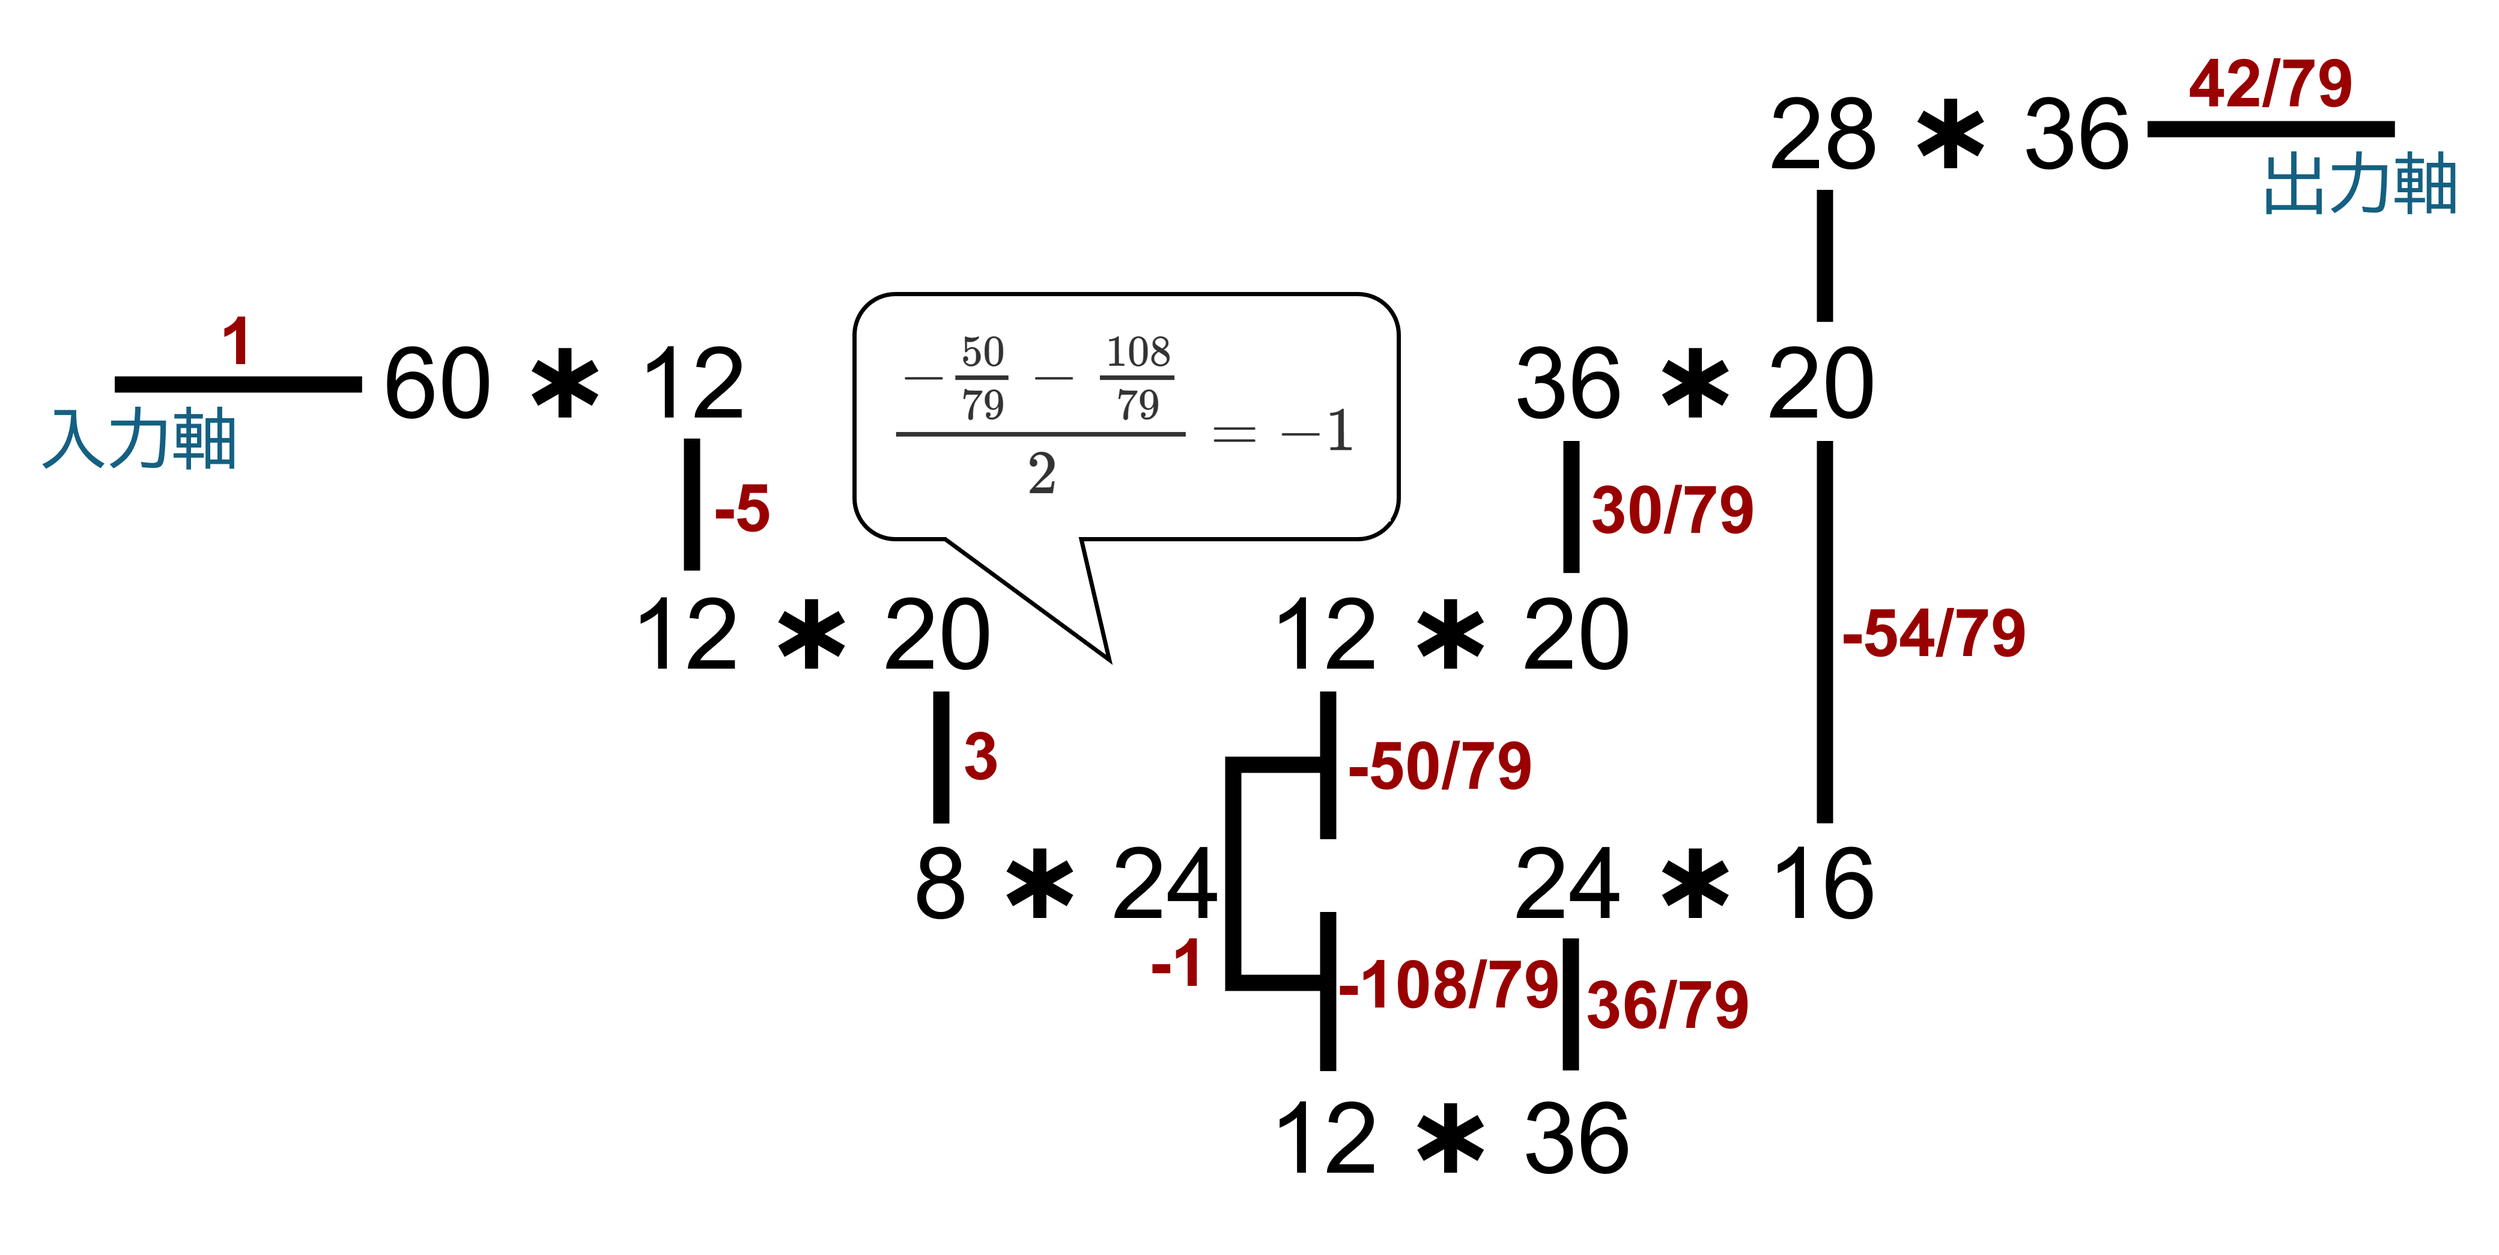
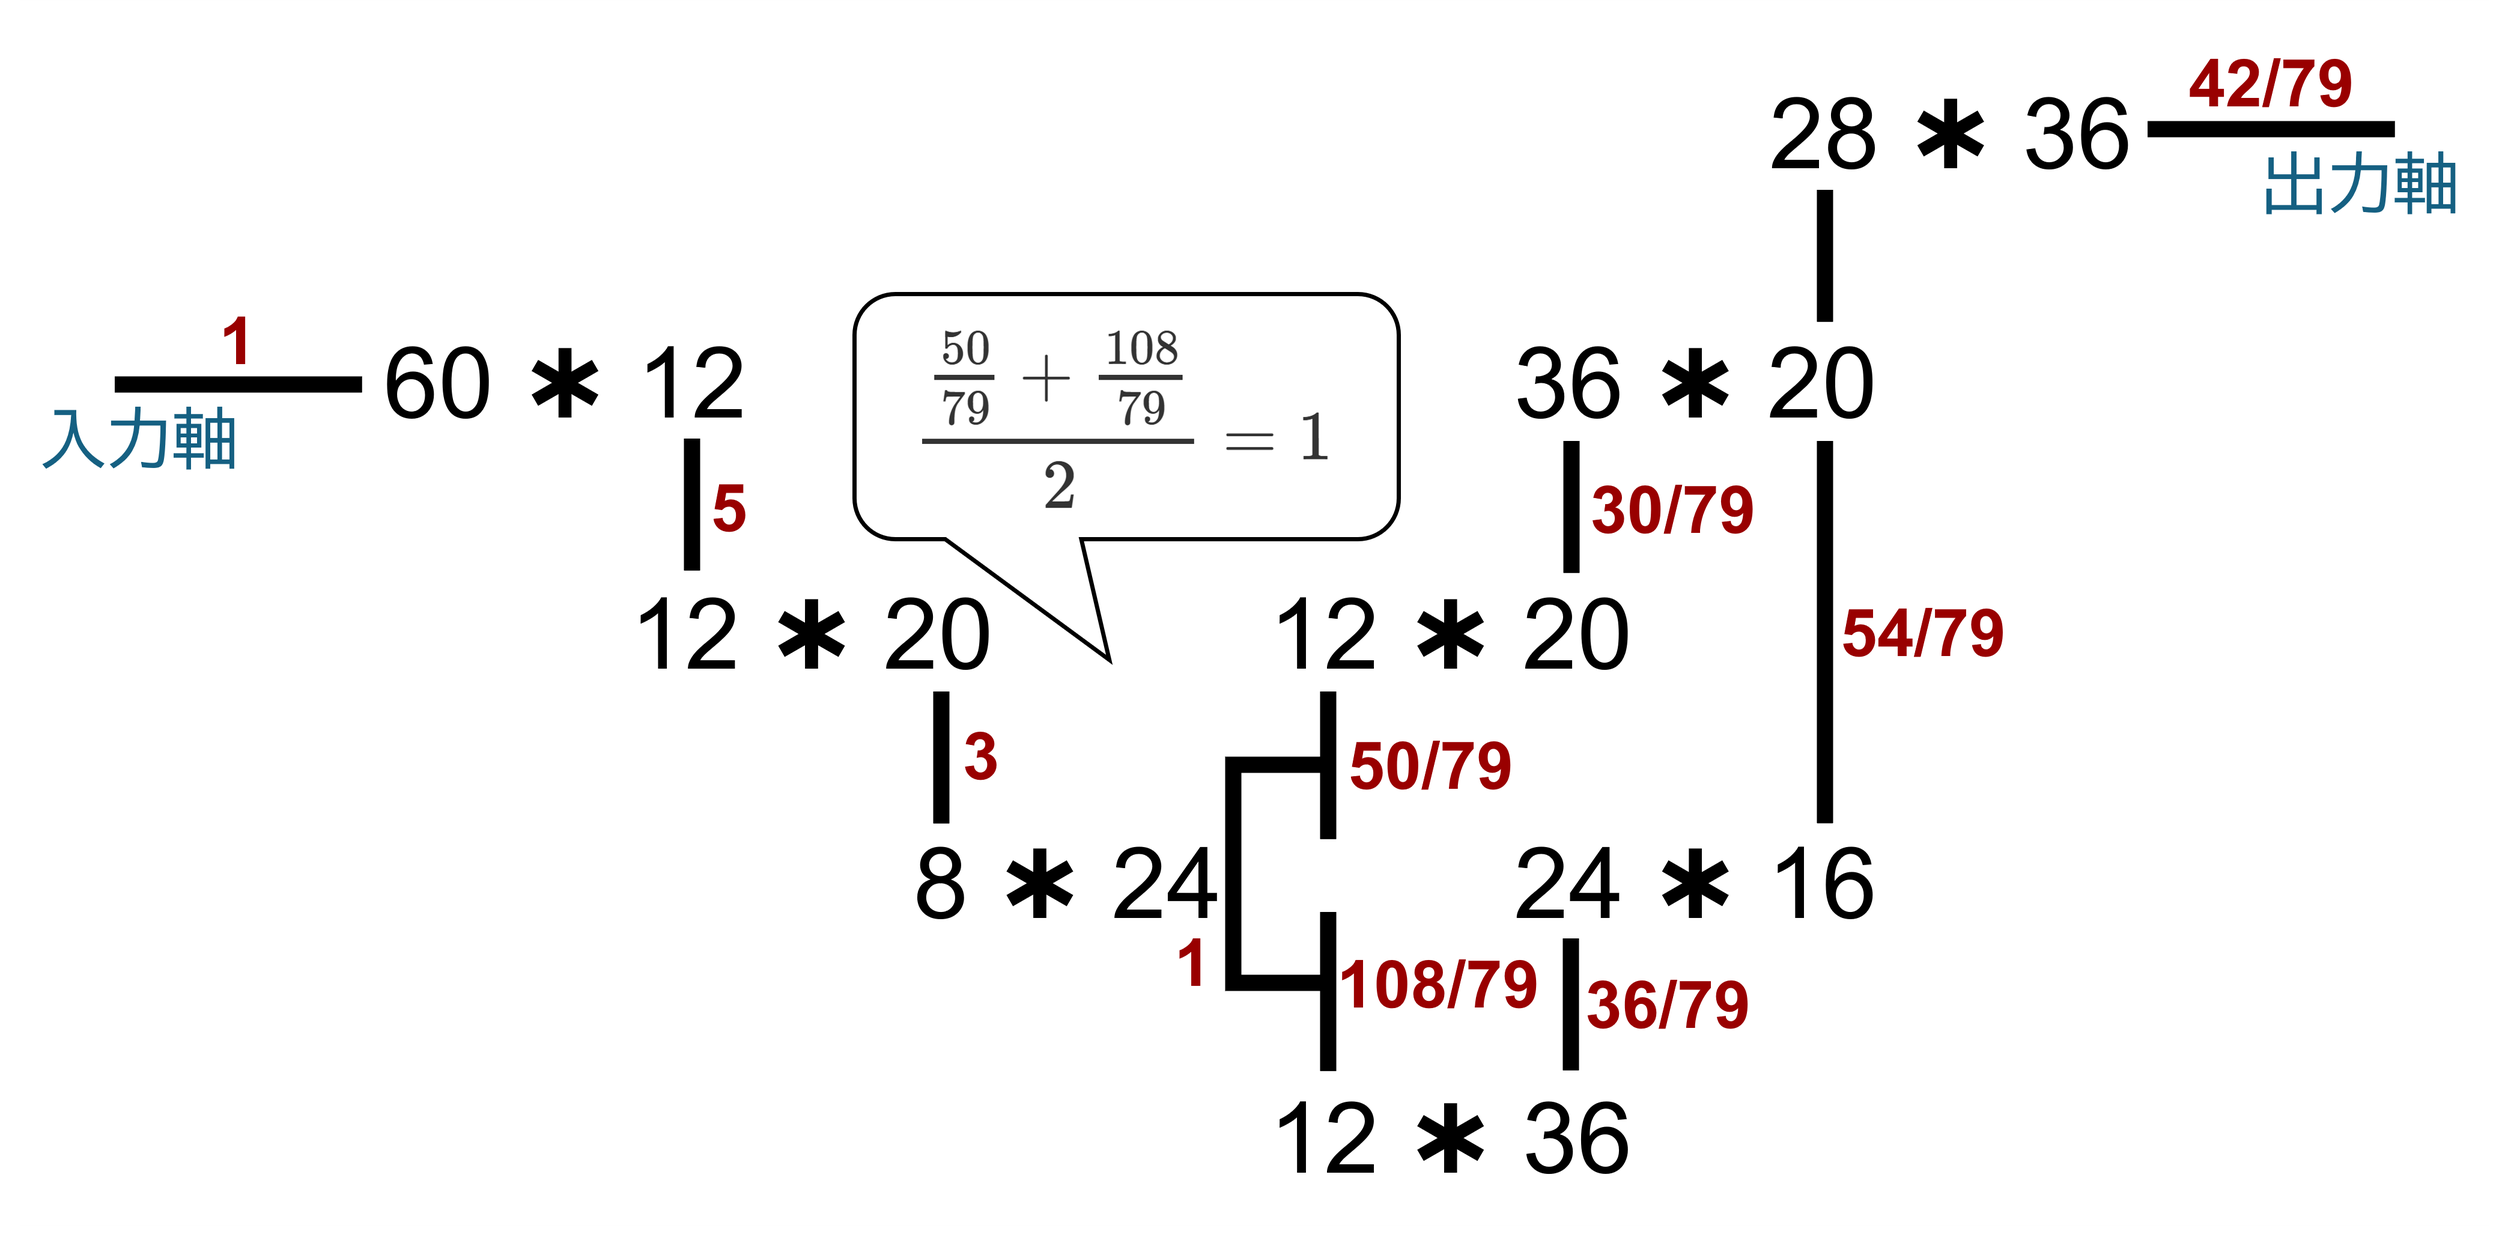
部員ページの更新（文章の変更など）

diff --git a/gallery/member_yasutajan/geocentric_model_of_planetary_motion.html b/gallery/member_yasutajan/geocentric_model_of_planetary_motion.html
@@ -27,7 +27,7 @@
     </header>
 
     <main id="app">
-        <figure>
+        <figure id="first_image">
             <img src="\images\gallery\member_yasutajan\work.png" alt="作品の写真">
         </figure>
 
@@ -162,7 +162,7 @@
                 プトレマイオスの測定の精密さ
             </h1>
             <p class="lead">
-                プトレマイオスは、<ruby>惑星<rt>わくせい</rt></ruby>や<ruby>周転円<rt>しゅうてんえん</rt></ruby>の中心が動く周期や、<ruby>従円<rt>じゅうえん</rt></ruby>と<ruby>周転円<rt>しゅうてんえん</rt></ruby>の大きさの比率をとても正確に計算していました。<br>
+                プトレマイオスは、<ruby>惑星<rt>わくせい</rt></ruby>や<ruby>周転円<rt>しゅうてんえん</rt></ruby>の中心が動く周期や<ruby>従円<rt>じゅうえん</rt></ruby>と<ruby>周転円<rt>しゅうてんえん</rt></ruby>の大きさの比を、とても正確に計算していました。<br>
                 「周期」とは、ここでは回っているものが元の位置に戻ってくるまでの時間のことを言います。<br>
                 例えば、金星と地球が最も近づく時間の間隔は583.934日としていましたが、
                 <sup>
@@ -361,9 +361,24 @@
                 歯車の仕組み
             </h1>
             <p class="lead">
-                この作品では、<ruby>惑星<rt>わくせい</rt></ruby>が正しい周期で動くように、歯車を複雑に組み合わせて<ruby>惑星<rt>わくせい</rt></ruby>を動かしています。<br>
-                歯車が1歯(ギザギザ一つ分)だけ進むと、それとかみ合っている歯車は、逆向きに1歯進みます。<br>
-                したがって、歯数mの歯車Aが1回転すると、歯車Aはm歯進むため、それとかみ合っている歯数nの歯車Bは逆向きにm歯進みます。つまり、歯車Bは逆向きにm/n回転するのです。<br>
+                この作品では、たくさんの歯車を使って<ruby>惑星<rt>わくせい</rt></ruby>を動かしています。<br>
+                まずは、歯車の基本的な仕組みについて説明します。
+            </p>
+            <p class="lead">
+                歯車どうしは、そのまわりのギザギザがかみ合って回ります。<br>
+                例えば、ギザギザが10個ある歯車Aと、ギザギザが20個ある歯車Bがかみ合っているとしましょう。<br>
+                歯車Aが1回転すると、歯車Aにはギザギザが10個あるのですから、歯車Bはギザギザ10個分回転します。<br>
+                しかし、歯車Bにはギザギザが20個あるのですから、歯車Bは&nbsp;10&nbsp;÷&nbsp;20&nbsp;=&nbsp;0.5回転します。
+                <sup>
+                    <span class="nowrap note-trigger" data-note=
+                        "本当は、かみ合っている歯車どうしは逆向きに回転するのですが、分かりやすくするために、向きについては考えないことにします。"
+                        >
+                        注16
+                    </span>
+                </sup><br>
+            </p>
+            <p class="lead">
+                このように、歯車Aを1回転させたときにかみ合っている歯車Bが何回転するかは、「歯車Aのギザギザの数」÷「歯車Bのギザギザの数」で決まります。<br>
                 これが、<ruby>惑星<rt>わくせい</rt></ruby>を正しい周期で動かすための基本的な仕組みです。
             </p>
             <figure>
@@ -375,15 +390,26 @@
                         </a>
                     </span><br>
                     図6: 歯車の組み合わせ<br>
-                    歯車Aが1回転すると、歯車Bは逆向きにm/n回転する
+                    左の歯車が1回転すると、右の歯車は逆向きに10÷20=0.5回転する
                 </figcaption>
             </figure>
 
             <p class="lead">
-                しかし、このような単純な仕組みだけで<ruby>惑星<rt>わくせい</rt></ruby>の動きを表現するには、複雑な歯数の歯車が必要になってしまいます。<br>
-                限られた種類の歯車で<ruby>惑星<rt>わくせい</rt></ruby>の動きを表現するために、ディファレンシャルギアと呼ばれる歯車を使いました。<br>
-                ディファレンシャルギアには、a, b, cという3つの回転軸があります。
-                そして、これらの回転軸は、その回転数がc=(a+b)/2をみたすように回転します。<br>
+                しかし、このような単純な仕組みだけで<ruby>惑星<rt>わくせい</rt></ruby>の動きを表現するには、複雑なギザギザの数をもつ歯車が必要になってしまいます。<br>
+                限られた種類の歯車で<ruby>惑星<rt>わくせい</rt></ruby>の動きを表現するために、ディファレンシャルギアという特別な歯車を使いました。
+            </p>
+            <p class="lead">
+                ディファレンシャルギアは、a, b, cという3つの回転軸をもつ不思議な仕組みで、その3つの軸の回転数には次の関係があります。<br>
+                cの回転数&nbsp;=&nbsp;(aの回転数&nbsp;+&nbsp;bの回転数)&nbsp;÷&nbsp;2<br>
+                例えば、aが18回転、bが同じ向きに8回転すると、cは(18&nbsp;+&nbsp;8)&nbsp;÷&nbsp;2&nbsp;=&nbsp;13回転します。
+                <sup>
+                    <span class="nowrap note-trigger" data-note=
+                        "18や8という数字は、2や3をかけることで作れますが、13はそうではないということがポイントです。
+                        難しい話になりますが、普通の歯車をかみ合わせて実現できる回転比はそのギザギザの数の素因数どうしのかけ算や割り算で表せる数値に限られる一方、ディファレンシャルギアを使うと、有理数である回転比ならどんな数値でも実現できます。"
+                        >
+                        注17
+                    </span>
+                </sup><br>
                 この作品では、普通の歯車とディファレンシャルギアを組み合わせて、<ruby>惑星<rt>わくせい</rt></ruby>が正しい周期で動くようにしています。
             </p>
             <figure>
@@ -395,7 +421,7 @@
                         </a>
                     </span><br>
                     図7: ディファレンシャルギアの仕組み<br>
-                    3つの回転軸a, b, cは、c=(a+b)/2をみたすように回転する
+                    3つの回転軸a, b, cは、c=(a+b)÷2をみたすように回転する
                 </figcaption>
             </figure>
         </div>
@@ -408,12 +434,16 @@
                 <ruby>惑星<rt>わくせい</rt></ruby>が正しい周期で動く仕組み
             </h1>
             <p class="lead">
-                普通の歯車やディファレンシャルギアがかみ合っている様子を、簡単のために、図8のように記号で表現することにします。
+                この作品では、金星と火星が正しい周期で動くように、普通の歯車やディファレンシャルギアをいくつも組み合わせています。<br>
+                ここでは、その仕組みについて説明します。
+            </p>
+            <p class="lead">
+                普通の歯車やディファレンシャルギアがかみ合っている様子を、図8のように記号で表現することにします。
                 <sup>
                     <span class="nowrap note-trigger" data-note=
                         "この記号は私が個人的に考えて使っているもので、一般的に使われているわけではありません。"
                         >
-                        注16
+                        注18
                     </span>
                 </sup><br>
                 普通の歯車は8枚歯の歯車と16枚歯の歯車がかみ合っている例を、ディファレンシャルギアは軸cが16枚歯の歯車になっている例をとりあげています。
@@ -426,22 +456,31 @@
                 </figcaption>
             </figure>
             <p class="lead">
-                さて、金星が正しい周期で動くためには、<ruby>周転円<rt>しゅうてんえん</rt></ruby>の中心が<ruby>従円<rt>じゅうえん</rt></ruby>を1周する間に、金星を<ruby>周転円<rt>しゅうてんえん</rt></ruby>の周りに8/13回転させる必要があります。
+                さて、金星が正しい周期で動くためには、<ruby>周転円<rt>しゅうてんえん</rt></ruby>の中心が<ruby>従円<rt>じゅうえん</rt></ruby>を1周する間に、金星が<ruby>周転円<rt>しゅうてんえん</rt></ruby>の中心を8/13回転するようにしています。
                 <sup>
                     <span class="nowrap note-trigger" data-note=
                         "正確には、金星が太陽を一周する時間を地球が太陽を一周する時間で割った値にする必要があります。
                         現在知られている値は0.6151943, 『アルマゲスト』に基づく値は0.6151978, 8/13は0.61538...です。"
                         >
-                        注17
+                        注19
                     </span>
                 </sup><br>
-                本作品では、この回転数の比を図9のようにして実現しました。<br>
-                なお、軸のそばにある赤い数字は、入力軸に対するその軸の回転数の比を表しています。逆向きの回転はマイナスをつけて表しています。
+                この作品では、この8/13という回転数を図9のようにして実現しました。<br>
+                なお、軸のそばにある赤い数字は、入力軸に対するその軸の回転数の比を表しています。
                 <sup>
                     <span class="nowrap note-trigger" data-note=
-                        "回転数の比は計算結果のみ示しています。実際に計算する際は、例えばディファレンシャルギアのc軸の回転数をxとおいて方程式を立て、解くとよいでしょう。"
+                        "本当は、ディファレンシャルギアにつながっている軸の回転の向きも考えなければなりません。
+                        実際に計算すると3つの回転軸が回転する向きはすべて同じ向きになるので、回転の向きに関しては省略しています。このあとの火星の場合も同じです。"
                         >
-                        注18
+                        注20
+                    </span>
+                </sup>
+                <sup>
+                    <span class="nowrap note-trigger" data-note=
+                        "回転数の比は計算結果のみ書いています。
+                        難しい話になりますが、実際に計算する際は、例えばディファレンシャルギアのc軸の回転数をxとおいて方程式を立て、解くとよいでしょう。"
+                        >
+                        注21
                     </span>
                 </sup><br>
             </p>
@@ -453,16 +492,16 @@
                 </figcaption>
             </figure>
             <p class="lead">
-                また、火星が正しい周期で動くためには、<ruby>周転円<rt>しゅうてんえん</rt></ruby>の中心が<ruby>従円<rt>じゅうえん</rt></ruby>を1周する間に、火星を<ruby>周転円<rt>しゅうてんえん</rt></ruby>の周りに42/79回転させる必要があります。
+                また、火星が正しい周期で動くためには、<ruby>周転円<rt>しゅうてんえん</rt></ruby>の中心が<ruby>従円<rt>じゅうえん</rt></ruby>を1周する間に、火星が<ruby>周転円<rt>しゅうてんえん</rt></ruby>の中心を42/79回転するようにしています。
                 <sup>
                     <span class="nowrap note-trigger" data-note=
                         "正確には、地球が太陽を一周する時間を火星が太陽を一周する時間で割った値にする必要があります。（金星のときとは逆です）
                         現在知られている値は1.88087, 『アルマゲスト』に基づく値は1.88077, 42/79は1.88095...です。"
                         >
-                        注19
+                        注22
                     </span>
                 </sup><br>
-                本作品では、この回転数の比を図10のようにして実現しました。
+                本作品では、この42/79回転数を図10のようにして実現しました。
             </p>
             <figure>
                 <img src="\images\gallery\member_yasutajan\mars_gears.png" alt="火星の歯車の組み合わせ">
@@ -496,7 +535,8 @@
                 [7] Arnold H.Rots, Peter S.Bunclark “Representations of time coordinates in FITS”<br>
                 Astronomy and Astrophysics, vol574, A36 (2015)<br>
             </p>
-            <p class="lead"><b>更新履歴</b><br>
+            <p class="lead">
+                <b>更新履歴</b><br>
                 
 
 <!--
@@ -511,8 +551,10 @@
 
 -->
 
+                2025年10月30日&nbsp;<span class="text">文章をさらに分かりやすくしました。</span><br>
                 2025年10月29日&nbsp;<span class="text">「歯車の仕組み」以降の章を加筆。また、webページのデザインを刷新しました。</span><br>
-                2025年10月4日&nbsp;公開</p>
+                2025年10月4日&nbsp;公開
+            </p>
             <p class="lead">
                 <b>関連リンク</b><br>
                 <a href="https://handailegobu.github.io/gallery/member_yasutajan/">

diff --git a/gallery/member_yasutajan/style.css b/gallery/member_yasutajan/style.css
@@ -152,6 +152,9 @@ img {
   border-radius: 4px;
   box-shadow: 0 2px 8px rgba(0,0,0,0.08);
 }
+#first_image img {
+  padding: 1rem;
+}
 
 /* --- Table --- */
 table {
